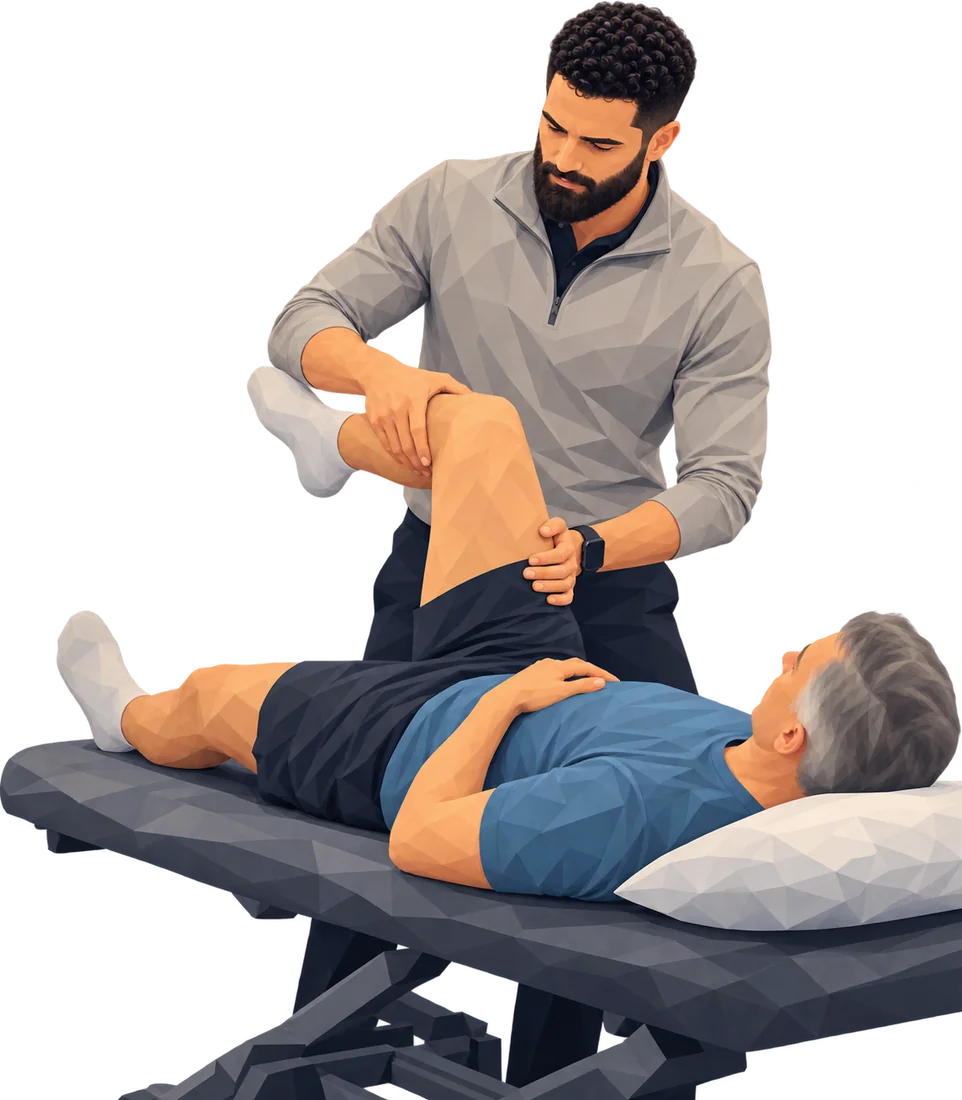
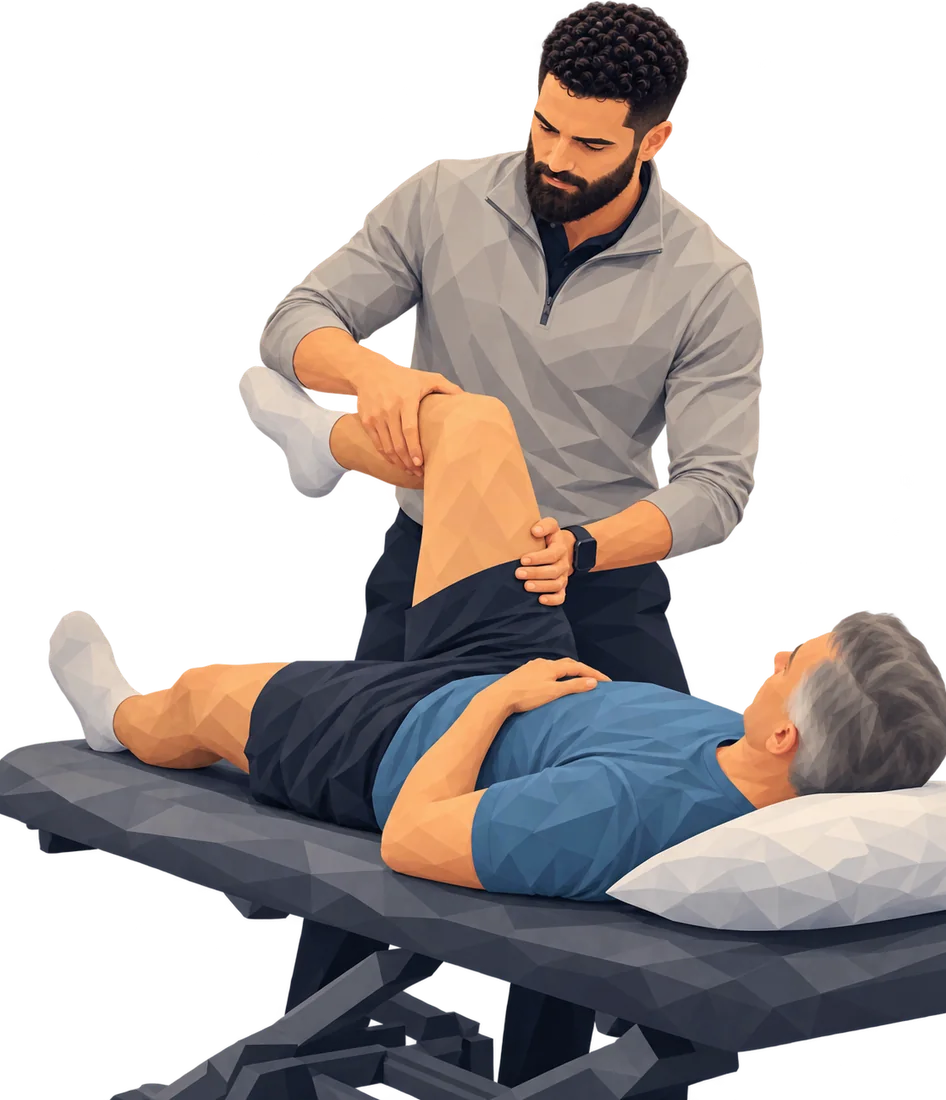
Hero: remove the seated shoulder figure; the hip flexion opens
Kareem saw what looked like an extra hand in the seated shoulder
assessment, so it is removed (twelve figures). The hip flexion now opens,
cut to exactly 0.86 so it fills the box and stays the page's largest
paint. Two causes of a late largest paint fixed along the way: the first
figure's rise started 3% low, so on laptops (box at the screen's foot) its
first paint was clipped and recorded small, and a leg scene overtook it
about 20s in; and the facet layers drew at full size, so the opener's own
copy coming round again a minute later measured larger. The rise now
starts in place (the mask's sweep carries it) and later figures draw at
97.5%. Measured: the largest paint is the opener at 0.3 to 0.7s, with no
later entry through a full 50s cycle at 1280, 1440 and 390 wide; 19
viewports clean. Also the repo notes for the About rounds.

diff --git a/components/home/HomeHero.tsx b/components/home/HomeHero.tsx
@@ -13,19 +13,22 @@ const BRAND = 'Kinetikare';
 
 /**
  * Kareem's illustrations (his own, made in ChatGPT, October 2026), in the
- * order they play: never two shoulder scenes in a row (five of the
- * thirteen are), and the three with a patient lying on the table four or
- * five apart, the loop included. Each sits bottom-centre in the same box. The first must draw largest in the box
- * (0.86 wide to tall): a later figure that painted larger would be counted as
- * the page's largest paint, seconds after load. The seated shoulder
- * assessment (0.849) does; a new one must be narrower than 0.849 or wider
- * than 0.871. `fade`: the edges where the scene runs off its picture (b, l,
- * r), which fade out instead of ending in a hard line. `aspect`: the exported
- * picture's width over height (it places the fades on the picture).
+ * order they play: never two shoulder scenes in a row (four of the twelve
+ * are), and the three with a patient lying on the table at least three
+ * apart, the loop included. Each sits bottom-centre in the same box. The
+ * first must draw largest in the box (0.86 wide to tall): a later figure
+ * that painted larger would be counted as the page's largest paint, seconds
+ * after load (measured: a leg scene at 0.84 overtook a 0.875 opener 20s in).
+ * The hip flexion is cut to exactly 0.86, so it fills the box; keep every
+ * other figure at least 2% smaller, narrower than 0.843 or wider than
+ * 0.877. (The seated shoulder assessment that opened until 2026-10-31 came
+ * out: Kareem saw what looked like an extra hand.) `fade`: the edges where the scene runs off its
+ * picture (b, l, r), which fade out instead of ending in a hard line.
+ * `aspect`: the exported picture's width over height (it places the fades
+ * on the picture).
  */
 const ART: { src: string; aspect: number; label: string; fade?: string }[] = [
-  { src: '/images/hero-art/kareem-shoulder-assessment.webp', aspect: 0.849, label: 'assessing a seated patient’s shoulder', fade: 'br' },
-  { src: '/images/hero-art/kareem-hip-flexion.webp', aspect: 0.875, label: 'bending the hip and knee of a patient lying on the table', fade: 'blr' },
+  { src: '/images/hero-art/kareem-hip-flexion.webp', aspect: 0.86, label: 'bending the hip and knee of a patient lying on the table', fade: 'blr' },
   { src: '/images/hero-art/kareem-band-row.webp', aspect: 0.743, label: 'pulling a resistance band in a split stance', fade: 'r' },
   { src: '/images/hero-art/kareem-shoulder-stretch.webp', aspect: 0.82, label: 'guiding a patient through a shoulder stretch', fade: 'br' },
   { src: '/images/hero-art/kareem-consultation.webp', aspect: 0.815, label: 'going over a plan with a patient on a tablet', fade: 'lr' },
@@ -116,10 +119,14 @@ function FacetLayer({ index, state, width, onLoad }: { index: number; state?: 'i
   const id = `hero-facets-${index}`;
   const { src, aspect, fade = '' } = ART[index];
   // The figure's own rectangle, bottom-centre in the box, so the edge fades
-  // sit exactly on its picture's cut edges.
+  // sit exactly on its picture's cut edges. Drawn at 97.5%, too small to see,
+  // so no figure after the first ever paints larger than it (the first
+  // figure is the page's largest paint; even its own copy coming round
+  // again a minute later measured a little larger at full size).
   const tall = aspect <= BOX_W / BOX_H;
-  const w = tall ? BOX_H * aspect : BOX_W;
-  const h = tall ? BOX_H : BOX_W / aspect;
+  const fit = 0.975;
+  const w = (tall ? BOX_H * aspect : BOX_W) * fit;
+  const h = (tall ? BOX_H : BOX_W / aspect) * fit;
   const l = fade.includes('l');
   const r = fade.includes('r');
   const image = (

diff --git a/components/home/Home.module.css b/components/home/Home.module.css
@@ -450,13 +450,16 @@
 .home .artLayer[data-state='first'] { animation: artRise 1.6s var(--ease) calc(var(--shift) + 0.15s) both; }
 .home .artLayer[data-state='out'] { animation: artFade 1.1s var(--ease-io) both; }
 
-/* Starts at 0.01, not 0, so the first figure still counts as painted. */
+/* Starts at 0.01, not 0, so the first figure still counts as painted, and
+   in place (no downward offset): on laptops its box meets the screen's foot,
+   and a figure first painted 3% low was recorded as a smaller largest paint
+   that a later figure then overtook. The mask's sweep up from the floor
+   carries the rise. */
 @keyframes artRise {
   from {
     -webkit-mask-position: 0 0%;
     mask-position: 0 0%;
     opacity: 0.01;
-    translate: 0 3%;
     filter: blur(6px);
   }
   35% { opacity: 1; }
@@ -464,7 +467,6 @@
     -webkit-mask-position: 0 100%;
     mask-position: 0 100%;
     opacity: 1;
-    translate: 0 0;
     filter: blur(0);
   }
 }

diff --git a/CLAUDE.md b/CLAUDE.md
@@ -120,10 +120,11 @@ Kareem said the home page and hero were boring "especially on mobile", named Tec
 - **Wording is the old home page's**, rearranged. New small labels need his OK: eyebrows "How care works", "Services", "Patient reviews"; Get in Touch labels "Book online", "Call", "Email", "Hours"; footer column labels "Explore", "Treatment Areas", "Connect"; "Explore knee pain" etc. on the hub links; "Back pain: Low back pain, Sciatica" under the atlas; "Fees and first visit" link; "Read the full review". Dropped: the "Treatment Approach" bullets and the four-item booking checklist.
 - Global CSS fights components (section backgrounds at 0,1,1 via nth-child, `a:not(...)` at 0,5,1, blockquote panels, `p` font family, phone `img` radius); the module scopes everything under `.home` and link colours use `:not(#_)`. The first section pads by the header height (`--hh`: 69 / 93 / 95px) because the header is fixed.
 - **Round 16 (2026-10-30), before going live:** a sweep of 19 viewports (phones 360 to 430 wide, landscape phones, tablets, laptops to 2560) for overflow, overlaps and things off screen. Fixes: on phones and upright tablets the figure fills the room between the masthead's foot (`4.5% + 1.39 * min(21vw, 96px)`) and the copy's head (372px from the bottom; the copy measured 320 to 341px tall); short phones (max-height 760) drop the hero's min-height, shrink the masthead and hide the credential and "Where does it hurt?"; on desktop the figure is also capped by the room left of the copy column, so taller screens (1440x900, 1024x768) no longer push it under the copy; the side-by-side layout applies only to screens at least as wide as tall (`min-aspect-ratio: 1/1`; a 1024x1366 iPad Pro gets the stacked layout) and to landscape phones (`(min-width: 640px) and (max-height: 520px) and (orientation: landscape)`, with the hero at screen height). Transitions: a change of figure drifts like a slow camera pan (`artArrive` from 2.5% right, `artFade` 2.5% left) and the rays dim and swell back with each change (`raysBreathA/B`, alternated by `data-turn` so the animation restarts). `qa.cjs`-style checks: all 19 sizes clean; key pages load without overflow or script errors at 390 and 1280.
-- **Round 17 (2026-10-30, live):** "the signature comes in too slow"; the change on phones not "cool enough", he preferred "the geometric transition that we originally had"; "the photos have to transition a bit faster"; then removed the coaching figure ("the weird background stuff") and added four more (standing shoulder check, sit-to-stand, band row, consultation with a tablet). Now: the signature writes in about 58% of its traced time (`calc(var(--ms) * 0.58)`, starting at shift + 1.45s). The first figure is a next/image layer (its rise entrance; the largest paint); **every change after it is a facet layer** (`FacetLayer`): an SVG `<image>` (optimizer URL, 750 wide under 1024px, else 1080) drawn through a mask of a 6x7 irregular triangle mesh; each facet grows about its own centroid (`transform-box: view-box`, origin inline) from a small, slightly turned shard (`facetIn`: scale 0.35, rotate -7deg, 46px low) to scale 1.04, so neighbours overlap and no seam shows; the leaving figure only fades (`artFade`), never breaks apart. These are the round 11 glitch fixes. Hold 3.6s (first 4.6s plus the opening's second); measured 60fps through a change, one 33ms frame at 4x CPU slowdown. Twelve figures (thirteen since round 18b); the seated shoulder assessment (0.849 wide to tall) plays first because it draws largest in the box. Edges where a scene runs off its picture fade out (`fade`: b, l, r): a CSS mask on the first figure, gradient masks on the figure's own rectangle in the facet layers (`aspect` in `ART` places them). A folder of the current figures in play order, with full-size originals: `C:\Work\Documents\Websites\kinetikare-home-redesign-2026-10-29\hero-images\`.
+- **Round 17 (2026-10-30, live):** "the signature comes in too slow"; the change on phones not "cool enough", he preferred "the geometric transition that we originally had"; "the photos have to transition a bit faster"; then removed the coaching figure ("the weird background stuff") and added four more (standing shoulder check, sit-to-stand, band row, consultation with a tablet). Now: the signature writes in about 58% of its traced time (`calc(var(--ms) * 0.58)`, starting at shift + 1.45s). The first figure is a next/image layer (its rise entrance; the largest paint); **every change after it is a facet layer** (`FacetLayer`): an SVG `<image>` (optimizer URL, 750 wide under 1024px, else 1080) drawn through a mask of a 6x7 irregular triangle mesh; each facet grows about its own centroid (`transform-box: view-box`, origin inline) from a small, slightly turned shard (`facetIn`: scale 0.35, rotate -7deg, 46px low) to scale 1.04, so neighbours overlap and no seam shows; the leaving figure only fades (`artFade`), never breaks apart. These are the round 11 glitch fixes. Hold 3.6s (first 4.6s plus the opening's second); measured 60fps through a change, one 33ms frame at 4x CPU slowdown. Twelve figures (thirteen in round 18b, twelve again from 2026-10-31); the seated shoulder assessment (0.849 wide to tall) played first because it drew largest in the box, until Kareem removed it on 2026-10-31 ("i basically look like i have an extra hand"): the hip flexion now opens, cut to exactly 0.86 so it fills the box, and every other figure must stay at least 2% smaller (narrower than 0.843 or wider than 0.877). The first figure's rise no longer starts 3% low: on laptops its box meets the screen's foot, so the first paint was clipped and recorded small, and a leg scene at 0.84 overtook it as the largest paint about 20s in. Edges where a scene runs off its picture fade out (`fade`: b, l, r): a CSS mask on the first figure, gradient masks on the figure's own rectangle in the facet layers (`aspect` in `ART` places them). A folder of the current figures in play order, with full-size originals: `C:\Work\Documents\Websites\kinetikare-home-redesign-2026-10-29\hero-images\`.
 - **Round 18 (2026-10-30):** "the images are waaaay too small on mobile ... better integrate it with the other stuff"; the masthead "could be much more premium"; the signature "looks tacky"; the rays "shouldnt be superimposed over the person ... something even more integrated and that doesnt look so tacky"; the laptop figure out, a standing shoulder elevation in. He picked from two rendered sheets (`...\kinetikare-home-redesign-2026-10-29\round-18-options\`): **masthead C, Extended** (over a cleaned-up condensed poster and a heavy-and-hairline pairing) and **backdrop 2, the faceted halo** (over a soft backlight). Now: KINETIKARE in Archivo 700 at `wdth` 125, PHYSIO in small spaced gold capitals (no outline); the word measures 8.14em long and 1.31em tall with PHYSIO, which the opening keyframes and the desktop column (`left: gutter + 1.31em`, art beside it) use. **Phones and upright tablets:** the figure fills the screen from the top down to the masthead, which stands in front of its lower edge (a gradient fades the figure into the night there); the copy sits under the masthead. `--mast-size` and `--mast-b` on `.hero` set the masthead's size and its distance from the bottom (phones `calc(252px + 12vw)`, short phones `calc(226px + 12vw)`, tablets `calc(250px + 9vw)`); the art box is capped at 102% wide; "Where does it hurt?" is hidden under 640px. **His name** is set in Archivo 700 spaced capitals (`.heroByline`); `Signature.tsx`, `signature-data.ts` and `scripts/signature/` were deleted (in git history before this round if a real scanned signature is ever wanted). **The halo** (`HALO` in `HomeHero`) replaces the rays: a low-poly disc built from jittered rings of points joined by strips of triangles, gold at the centre cooling to blue, in five concentric bands, each its own `<svg>` layer; the ripple on load and the wave at each change animate only the bands' opacity. Animating each facet's fill-opacity instead repainted the disc every frame (about 32fps at 4x CPU during a change); the bands measure 57 to 59fps at 4x. A soft contact shadow (`.heroArt::before`) grounds the figure. Figure order keeps the five shoulder scenes apart, the loop included.
 - **Round 19 (2026-10-30), a calmer page below the hero:** he asked whether there was "too much going on" when scrolling. It ran about 20,700px on a phone (some 25 screens) with 17 pictures below the hero in three styles (his low-poly figures in the hero, engraved prints on cream, photos). His calls, item by item: "Get back to it" removed (`HomeGetBack.tsx` deleted, `GET_BACK_ROW` and `CARE_JOURNEY` gone from `lib/illustrations.ts`; the six prints remain in the registry and on the hubs); the reviews keep only the carousel ("I like the carousel"; the scroll-pinned spotlight of four pull quotes is gone, and the "More from Google" label with it; the rating heading with the arrows now sits above the row); the closing slogan block stays ("I like the slogan block"); the anatomy plates stay. Left to me: the Care Journey is four numbered steps on one gold line (across on laptops, down the left on phones, a node per step) on the night, with no prints, so grounds alternate night, light, night, light from the atlas down; Services lost its photo and its heading holds (sticky) beside the list on laptops. Now about 13,400px on a phone, with five pictures below the hero (the four plates and the treatment-room photo). No new wording was added.
-- **Other pages (2026-10-30):** he asked to "make improvements on some of the other pages to make them look way better". By Canadian traffic (GA4, 90 days) the order is /about, /conditions, /services, /treatments (/intake was the paused Ads landing page). A rebuild of /about in the home's editorial language (night and ivory, Playfair, gold hairlines, portrait in front of the halo, no cards) went live in commit 9149862 and was **reverted the same evening** at his word: "there is some stuff thats no where near as nice as it was before; i honestly think it looked way cooler before but that you can just make it even better". So for the inner pages: keep each page's existing design (white cards with depth, icons, gradient accents, colour logos, the sticky sidebar) and improve it, rather than replacing it with the home's language. The shared  and  came out of that work and stay (the home uses them).
+- **Other pages (2026-10-30):** he asked to "make improvements on some of the other pages to make them look way better". By Canadian traffic (GA4, 90 days) the order is /about, /conditions, /services, /treatments (/intake was the paused Ads landing page). A rebuild of /about in the home's editorial language (night and ivory, Playfair, gold hairlines, portrait in front of the halo, no cards) went live in commit 9149862 and was **reverted the same evening** at his word: "there is some stuff thats no where near as nice as it was before; i honestly think it looked way cooler before but that you can just make it even better". So for the inner pages: keep each page's existing design (white cards with depth, icons, gradient accents, colour logos, the sticky sidebar) and improve it, rather than replacing it with the home's language. The shared `components/home/halo.ts` and `components/home/fonts.ts` came out of that work and stay (the home uses them).
+- **About, improved within its own design (live 2026-10-31, commits a9220cc, 62f2379, 80f0c0c).** Round 1: his portrait card in the opening (`components/about/AboutHero.tsx`, fades from 0.01 so it counts as the largest paint), "My Commitment to You" as three cards (the carousel and `CommitmentCarousel.tsx` are gone), on phones the story straight after the opening, scroll reveals (`Reveal` from components/home with rules in `components/about/About.module.css`, scoped by `.page` on main), consistent card shadows and hover lifts. Round 2, his pick of four offered ("cards with real depth and motion"; `components/about/Deck.tsx`): Philosophy and the commitments arrive gathered like a deck and fan out into their row (`CardFan`, 768px up); What Drives My Practice stacks as a sticky deck, lower cards sinking and dimming, each card's gold edge lighting as it lands (`StackDeck`); Professional Foundation cards drift against the scroll (`Drift`, laptops); cards draw a gold top edge as they reveal (`.edge`). Round 3 (he did not answer the options; I chose, he approved): a warmer opening with the home hero's halo behind the portrait card and a gentle scroll parallax; the laptop sidebar now actually stays on screen (its column needed `lg:self-stretch`; it never stuck before), compact affiliations and a slim booking card, the duplicate highlights box gone; the quote card grows in (`GrowIn`); a dark closing card with a gold edge and his portrait in a gold ring (the one booking card on phones). All `backdrop-blur` on the page was removed (invisible on white, it made scrolling stutter); moving layers carry `will-change`. About 59fps scrolling the page on a 4x-throttled phone. Word-by-word text lighting was deliberately not used (small text tricks read as cheap to him). Next pages by traffic: /conditions, /services, /treatments, improved the same way.
 - Reviews live in `lib/reviews.ts` (`reviews`, `GOOGLE_REVIEW_TOTAL`, `GOOGLE_REVIEWS_URL`). The old home sections (`components/sections/*`) and `components/GoogleReviews.tsx` were deleted when the redesign went live (nothing imported them).
 
 ## Home hero before the redesign (state as of 2026-09-15; replaced 2026-10-30)
